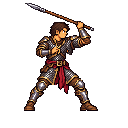
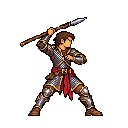
Check the monster export in ctest; saving is allowed wherever exploration is idle
opengold_monster_export_check runs the Combat Sprite Catalog's own
MonsterExport.up_to_date() headless, needing neither the game files nor the
catalog's native library, and fails when data/monsters differs from what an
export of the catalog's records and art would write. Catalog art committed
without an export never reached the game; the check found 28 stale files on
main, regenerated here with the catalog's export_all().

The user chose to keep saving as the game already does it: from the roster
or wherever exploration is idle, never during combat. SAVE-1 records this
and supersedes the camp/inn-only clause of Q5-7; the docs that still stated
camp/inn-only saving now point to it.

Two shadowed names in new tests (cleric_levels_tests, paladin_levels_tests)
broke the MSVC build, where warnings are errors; the inner ones are renamed.

Changed region(s): [[0.1562, 0.0, 0.8125, 0.9062]]

diff --git a/tests/cleric_levels_tests.cpp b/tests/cleric_levels_tests.cpp
@@ -1234,7 +1234,7 @@ void higher_slot_checks()
 {
     const auto rules = dummy_rules();
     const auto sheet = with_spells(cleric(9), {"spiritual_weapon", "freedom_of_movement"});
-    std::vector<int> strikes;
+    std::vector<int> strike_damage;
     for (std::uint64_t seed = 1; seed <= 12; ++seed)
     {
         auto c = chapel(*rules, sheet, "dummy", seed);
@@ -1252,16 +1252,16 @@ void higher_slot_checks()
         const auto hit = strike.find(" hits for ");
         if (hit != std::string::npos && strike.find("d20 20 ") == std::string::npos)
         {
-            strikes.push_back(std::stoi(strike.substr(hit + 10)));
+            strike_damage.push_back(std::stoi(strike.substr(hit + 10)));
         }
     }
     // 1d8 + 5 from a level-2 slot; 2d8 + 5 from a level-3 one.
-    check(std::all_of(strikes.begin(), strikes.end(),
+    check(std::all_of(strike_damage.begin(), strike_damage.end(),
                       [](int amount)
                       {
                           return amount <= 21;
                       }) &&
-              std::any_of(strikes.begin(), strikes.end(),
+              std::any_of(strike_damage.begin(), strike_damage.end(),
                           [](int amount)
                           {
                               return amount > 13;

diff --git a/tests/paladin_levels_tests.cpp b/tests/paladin_levels_tests.cpp
@@ -511,14 +511,14 @@ void upcast_checks()
     const auto searing = paladin(9);
     for (std::uint64_t seed = 1; seed <= 16; ++seed)
     {
-        auto c = duel(*rules, searing, seed);
-        if (!submit(*c, "melee", 98) || !offered(*c, "searing_smite_3"))
+        auto fight = duel(*rules, searing, seed);
+        if (!submit(*fight, "melee", 98) || !offered(*fight, "searing_smite_3"))
         {
             continue; // A miss offers no smite.
         }
-        check(submit(*c, "searing_smite_3", 98), "Searing Smite from a level-3 slot");
-        next_turn(*c);
-        for (const auto &line : c->snapshot().log())
+        check(submit(*fight, "searing_smite_3", 98), "Searing Smite from a level-3 slot");
+        next_turn(*fight);
+        for (const auto &line : fight->snapshot().log())
         {
             if (const auto at = line.find(" burns for "); at != std::string::npos)
             {

diff --git a/docs/SRD-DECISIONS.md b/docs/SRD-DECISIONS.md
@@ -193,7 +193,7 @@ TWF selectors/automatic benefit. Do not ask these again.
 | Initial four decisions | Preserve remaining turn resources; SRD opportunity triggers without facing reactions; allied transit; Versatile grip/damage/shield behavior | [Implementation plan](SRD-IMPLEMENTATION.md); these do not settle unrelated campaign policies. |
 | Q1 / Grip | **Superseded by [AUTO-1](#auto-1-2026-09-30-automatic-choices-with-logging).** Labeled one/two-hand dropdown with actual dice, keyboard, immediate persistence; two hands unavailable with shield | [Implementation plan](SRD-IMPLEMENTATION.md). |
 | Old-save training / Q9–10 | Keep missing choices pending; approved Training step after Class and before Name; Back keeps valid choices, invalid choices pruned; presets pre-generate their training | [Training](TRAINING.md). Q11 superseded by approved Q28. |
-| Q5–7 / HP, Adrenaline and saving | HP colors/source tooltips and separate Temporary HP; Adrenaline Rush beside Dash; **player saves only at camp/inn** | [Temporary HP](TEMPORARY-HP.md). Internal combat checkpoint tests permitted; no player combat Save/Load controls. |
+| Q5–7 / HP, Adrenaline and saving | HP colors/source tooltips and separate Temporary HP; Adrenaline Rush beside Dash; **player saves only at camp/inn** (saving superseded by [SAVE-1](#save-1-2026-10-25-save-wherever-exploration-is-idle)) | [Temporary HP](TEMPORARY-HP.md). Internal combat checkpoint tests permitted; no player combat Save/Load controls. |
 | Q8 | **Superseded by [AUTO-1](#auto-1-2026-09-30-automatic-choices-with-logging).** Two-stage Savage Attacker hit/damage-choice dialog, keyboard, action/reaction retained as spent | [Savage Attacker](SAVAGE-ATTACKER.md). Does not approve Sneak Attack's new decision order. |
 | Q12–16 | Wizard/Cleric Spell Choices; supported selections, counts, Back, pending catalog choices, preset choices; approved casting row | [Cantrip controls](CANTRIP-CONTROLS.md), [Sacred Flame](SACRED-FLAME.md). |
 | Q17 | Action Surge beside Adrenaline Rush, remaining uses, disabled when unavailable, keyboard | [Action Surge](ACTION-SURGE.md). |
@@ -2003,3 +2003,11 @@ fights faced north at the script's distance. The probe could not make the
 original step diagonally, so the user chose (2026-10-25) that a diagonal step
 faces the direction to its left: north-east faces north, south-east east,
 south-west south and north-west west.
+
+## SAVE-1 (2026-10-25): save wherever exploration is idle
+
+The user chose that a player saves the campaign from the party roster or
+whenever exploration is idle, anywhere on the map, as the game has done since
+2026-09-08 ([saves](SAVES.md)). This replaces the saving clause of Q5–7, which
+allowed saves only while camping or at an inn. Saving during combat or an
+unfinished event stays refused; combat checkpoints remain internal.

diff --git a/docs/SAVES.md b/docs/SAVES.md
@@ -125,8 +125,9 @@ combat saves use the same storage service with their own size limit and codec.
 Temporary files are ignored by the slot list. If the newest save is damaged,
 explicitly choose its previous version in **Load game**.
 
-Player save policy: save while camping or at an inn. Do not expose saving during
-combat. Combat checkpoint codecs remain internal tools for deterministic testing
+Player save policy ([SAVE-1](SRD-DECISIONS.md#save-1-2026-10-25-save-wherever-exploration-is-idle)):
+save from the roster or wherever exploration is idle. Do not expose saving
+during combat. Combat checkpoint codecs remain internal tools for deterministic testing
 and continuation; their existence does not authorize an in-combat save control.
 
 ## Verification

diff --git a/dev_tools/combat_sprite_catalog/README.md b/dev_tools/combat_sprite_catalog/README.md
@@ -214,7 +214,10 @@ PNGs. Unsaved edits are not exported. A record flagged for regeneration exports
 its data but no art, and a set missing a 128 × 128 pose is left out. Records of
 shared `CPIC` icons are not exported. The headless `--export-to-game` mode does
 the same without the game files, and `--catalog-check` fails when the export is
-out of date.
+out of date. So does `opengold_monster_export_check` in the game's ctest suite,
+which needs neither the game files nor this tool's native library: after
+changing the catalog's records or art, export and commit `data/monsters` with
+them.
 
 Run `--metadata-check` in place of `--catalog-check` to verify JSON persistence,
 draft retention, paired one-handed setups, separate ranged and two-handed setups,

diff --git a/docs/HEAVY-WEAPONS.md b/docs/HEAVY-WEAPONS.md
@@ -20,8 +20,8 @@ ability, current score and result in English and Spanish. No controls change.
 Equipping another weapon and ability increases recompute the requirement.
 
 The penalty is derived from the existing character recipe, so it adds no saved
-mutable state. Player saves remain restricted to camp or inn; checkpoints are
-internal tests.
+mutable state. Player saving follows [SAVE-1](SRD-DECISIONS.md#save-1-2026-10-25-save-wherever-exploration-is-idle): wherever exploration is idle, never in combat.
+Checkpoints are internal tests.
 
 [heavy_weapon_tests.cpp](../tests/heavy_weapon_tests.cpp) covers all twelve
 classes and all nine Heavy weapons, scores 12/13, independent seeded

diff --git a/docs/SACRED-FLAME.md b/docs/SACRED-FLAME.md
@@ -39,8 +39,8 @@ demo retains its existing layout; both creators share the spell-choice control.
 ## Persistence and verification
 
 Profile recipes validate Cleric cantrips against their sourced grants.
-Loading never fills missing choices or replenishes resources. Player saving
-remains restricted to camping or an inn.
+Loading never fills missing choices or replenishes resources.
+Player saving follows [SAVE-1](SRD-DECISIONS.md#save-1-2026-10-25-save-wherever-exploration-is-idle): wherever exploration is idle, never in combat.
 
 - [Native tests](../tests/sacred_flame_tests.cpp) use independent level-1–4
   save/damage/RNG expectations, defenses, range, sight, hands, armor, Dodge,

diff --git a/docs/MEDICINE-TACTICAL-MIND.md b/docs/MEDICINE-TACTICAL-MIND.md
@@ -105,7 +105,7 @@ Action type along with resource/RNG state.
 The public snapshot exposes check-choice display data. Core's only new branch
 selects the first rule-offered choice for AI; it contains no SRD calculation,
 DC, resource cost or feature decision. New controls are confined to the approved
-game/demo views. Player saving remains camp/inn only.
+game/demo views. Player saving follows [SAVE-1](SRD-DECISIONS.md#save-1-2026-10-25-save-wherever-exploration-is-idle): wherever exploration is idle, never in combat.
 
 Focused native checks pass for all twelve starting classes, Fighters 1–4,
 proficient Medicine sources, actual roll extremes, both d10 outcomes, declined

diff --git a/docs/POISON-SPRAY.md b/docs/POISON-SPRAY.md
@@ -44,7 +44,7 @@ its existing controls; the shared creation step is available in both creators.
 Campaign saves store the creation cantrip choices. Profile recipes validate
 explicit cantrip grants against their listed spells.
 Loading never replenishes resources or automatically learns another cantrip.
-Player saving remains limited to camping or an inn.
+Player saving follows [SAVE-1](SRD-DECISIONS.md#save-1-2026-10-25-save-wherever-exploration-is-idle): wherever exploration is idle, never in combat.
 
 - [Native tests](../tests/poison_spray_tests.cpp): independent level-1–4 hit,
   miss and critical rolls, RNG consumption, defenses, range, path, casting hands,

diff --git a/docs/SORCERER-CANTRIPS.md b/docs/SORCERER-CANTRIPS.md
@@ -22,7 +22,7 @@ caster's next turn. Both effects apply on a hit even through damage immunity.
 Only the Magic action is spent. Other resource pools remain unchanged.
 
 Profile recipes validate the new source and use Charisma for Sorcerers.
-No player combat saving controls were added; camp/inn saving remains the policy.
+No player combat saving controls were added. Player saving follows [SAVE-1](SRD-DECISIONS.md#save-1-2026-10-25-save-wherever-exploration-is-idle): wherever exploration is idle, never in combat.
 
 Evidence: [native checks](../tests/sorcerer_cantrip_tests.cpp),
 [creator checks](../tests/sorcerer_cantrip_view_tests.gd) and

diff --git a/docs/REST-RESOURCES.md b/docs/REST-RESOURCES.md
@@ -529,7 +529,7 @@ verified guaranteed five-minute profile now begins/resumes an actual rest,
 advances that interval, explicitly wakes active members, and ends camping after
 successful GO. Failed/unsupported continuation rolls back the complete event.
 Unknown probabilistic profiles and the unsupported city-watch fight remain
-explicit. Camp/inn-only saving and paid-inn rollback stay unchanged.
+explicit. Saving and paid-inn rollback stay unchanged.
 
 Evidence: `safe_recovery` and `rest_ground_equipment` in
 `tests/natural_sleep_tests.cpp`; `watch_equipment_and_rollback` and

diff --git a/docs/ACTION-SURGE.md b/docs/ACTION-SURGE.md
@@ -39,7 +39,7 @@ Temporary HP, Orc uses and effects.
 A Fighter acquires the fixed feature when its recorded advancement reaches
 level 2. Expenditure
 survives training, advancement, healing, elapsed time and campaign handoff.
-Saving remains restricted to camping or an inn; internal combat checkpoints are
+Player saving follows [SAVE-1](SRD-DECISIONS.md#save-1-2026-10-25-save-wherever-exploration-is-idle): wherever exploration is idle, never in combat. Internal combat checkpoints are
 for deterministic continuation and tests.
 
 ## Verification and remaining integration
